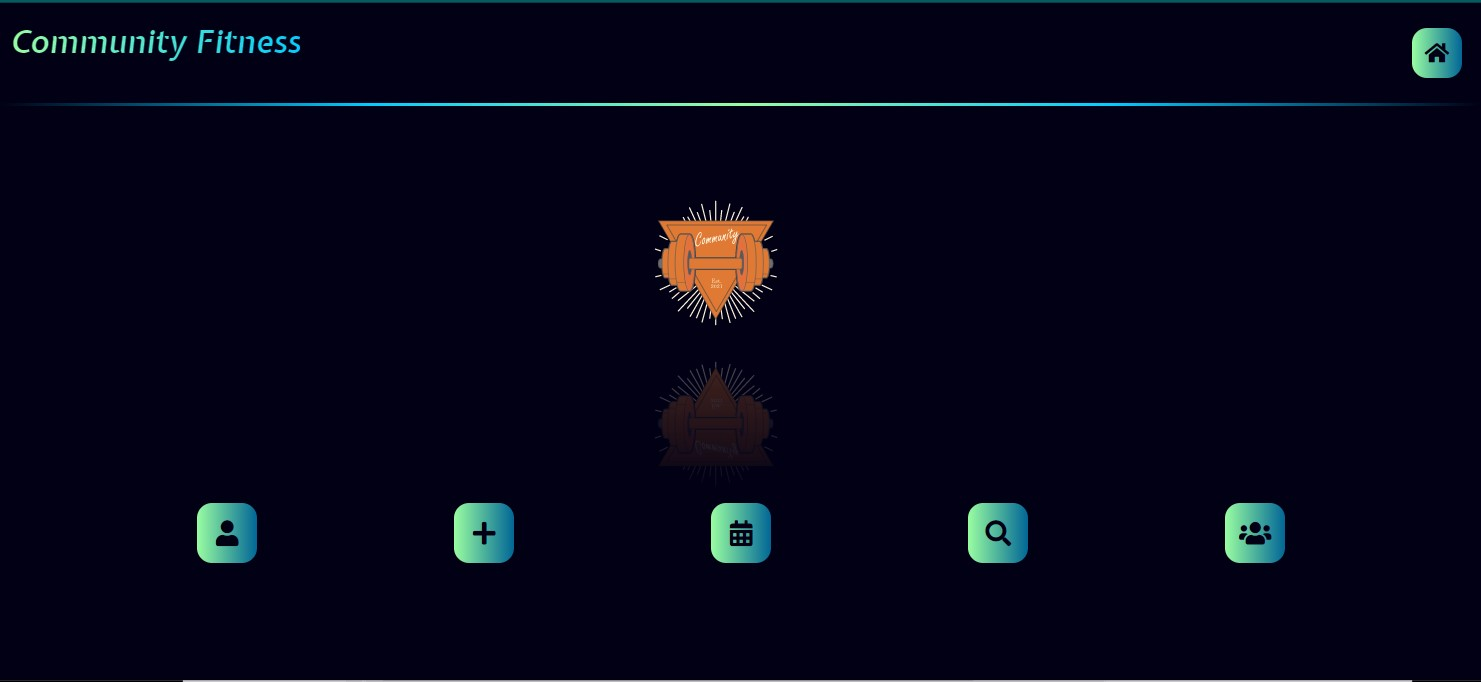
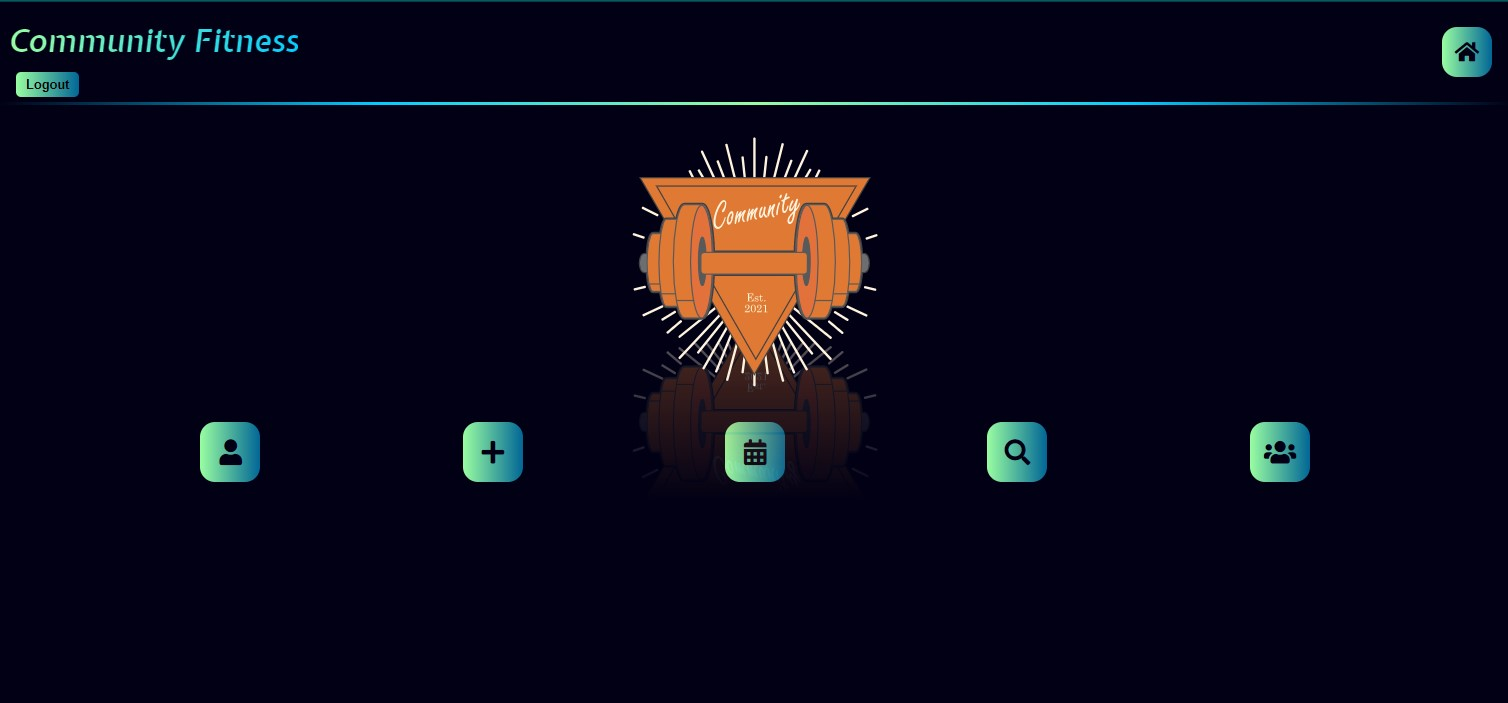
updated Readme with deployed links and new images

diff --git a/README.md b/README.md
@@ -1,3 +1,4 @@
+<!-- TOP -->
 # Group Project #3
 
 ## Community Fitness Workout App
@@ -15,7 +16,8 @@
 
 ### Deployed
 
-For [webpage](INSERT HEROKU HERE)
+For [webpage](https://lit-headland-55854.herokuapp.com/login)
+For [github](https://github.com/VScacchitti/CommunityFitness-project-3)
 
 
 ### Installation
@@ -38,41 +40,59 @@ npm start
 
 Your app should now be running on <http://localhost:3000>. The Express server should intercept any AJAX requests from the client.
 
-[Back to Top](#) 
+[Table of Contents](#Table-of-Contents)
 
 ### Navigation
+* [Login](#login)
 * [Profile](#profile)
 * [Create a Workout](#workout)
 * [Weekly Plan](#plan)
 * [Search by Muscle](#search-by-muscle)
 * [Social](#social)
 
-## Profile 
-![Screen Shot](https://github.com/VScacchitti/CommunityFitness-project-3/blob/master/ScreenShots/ProfileSS.jpg)
+## Login / Sign Up
+![Screen Shot](https://github.com/VScacchitti/CommunityFitness-project-3/blob/master/ScreenShots/LoginSS.jpg) </br>
+![Screen Shot](https://github.com/VScacchitti/CommunityFitness-project-3/blob/master/ScreenShots/SignUpSS.jpg)
 
-This page allows the User to enter in their current weight so they can monitor their progress while using the app and during their daily exercise. They can also enter in personal records (PR) for lifting weights or reps done. 
+This page allows the User to create an account. As well as log into their existing account and access their workouts. 
 
-## Workout 
-![Screen Shot](https://github.com/VScacchitti/CommunityFitness-project-3/blob/master/ScreenShots/WorkoutSS.jpg)
-
-On this page the User can create a workout that they can then save and recall later should they want to do the same workout another time.
+[Back to Navigation](#Navigation)
 
 ## Plan  
 ![Screen Shot](https://github.com/VScacchitti/CommunityFitness-project-3/blob/master/ScreenShots/PlanSS.jpg)
 
 This page allows the user to either select from the Workout tab, which lists all the workouts that they created and saved. Or they are able to click on the Exercise tab and select from a list of loaded workouts from the database. Once a user selects a workout from either pop up, that exercise falls into the weekly calendar and can be dragged to a different day.
 
+[Back to Navigation](#Navigation)
+
+## Profile 
+![Screen Shot](https://github.com/VScacchitti/CommunityFitness-project-3/blob/master/ScreenShots/ProfileSS.jpg)
+
+This page allows the User to enter in their current weight so they can monitor their progress while using the app and during their daily exercise. They can also enter in personal records (PR) for lifting weights or reps done. 
+
+[Back to Navigation](#Navigation)
+
 ## Search by Muscle 
 ![Screen Shot](https://github.com/VScacchitti/CommunityFitness-project-3/blob/master/ScreenShots/MuscleManSS.jpg)
 
 This page allows the user to select a muscle region and have a list of workouts appears that they can then select from to add to their weekly plan.
+
+[Back to Navigation](#Navigation)
 
 ## Social 
 ![Screen Shot](https://github.com/VScacchitti/CommunityFitness-project-3/blob/master/ScreenShots/SocialSS.jpg)
 
 This page is where the general public can add comments or remarks to the exercises that the user has done. Future implementation would have a user to user group feature where the main user can limit the comments to only their friends or other users that they've allowed access to. 
 
-[Back to Top](#) 
+[Back to Navigation](#Navigation)
+
+
+## Workout 
+![Screen Shot](https://github.com/VScacchitti/CommunityFitness-project-3/blob/master/ScreenShots/WorkoutSS.jpg)
+
+On this page the User can create a workout that they can then save and recall later should they want to do the same workout another time.
+
+[Table of Contents](#Table-of-Contents)
 
 ### Technology
 
@@ -84,22 +104,21 @@ This page is where the general public can add comments or remarks to the exercis
 * React-dnd
 * Cogo-toast
 * Jsonwebtoken
-* Passport
+* Bcrpyt
 
-[Back to Top](#) 
 
 ### Contributors
 
-Vince Scacchitti
-Joy Meredith
-Brennan Doehring
-Michael Kolek
+* Vince Scacchitti </br>
+* Joy Meredith </br>
+* Brennan Doehring </br>
+* Michael Kolek </br>
 
-[Back to Top](#) 
+[Table of Contents](#Table-of-Contents) 
 
 ### License
 MIT
   ![badge](https://img.shields.io/badge/license-MIT-red) 
 
 
-[Back to Top](#)
+[Table of Contents](#Table-of-Contents)
